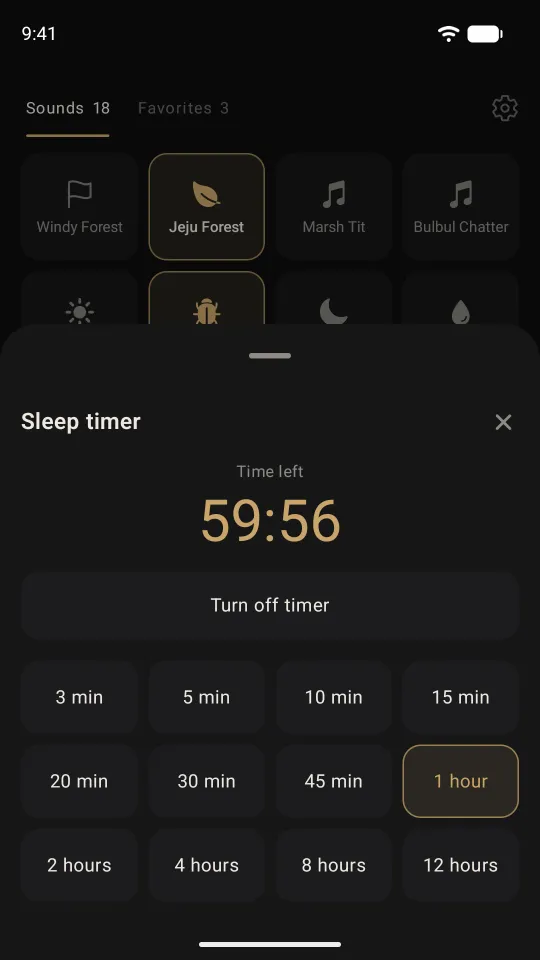
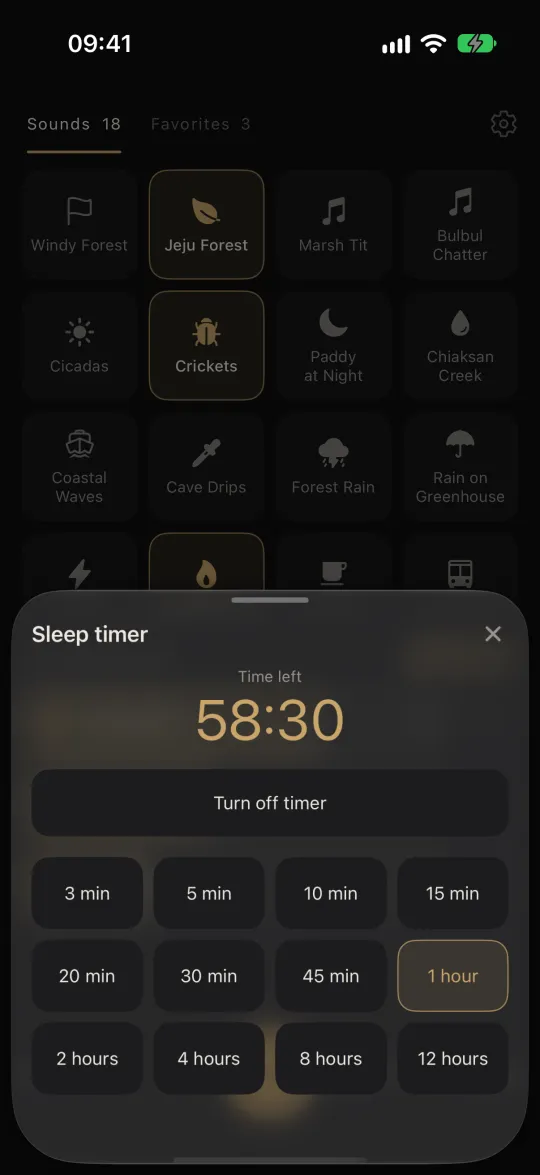
feat: 사라락 홍보 페이지에 App Store 배지와 링크를 넣고 Android 내용을 뺌
iOS 출시(2026-11-05)에 맞춰 "출시 예정"을 공식 배지로 바꾸고, 스마트 앱 배너와
구조화 데이터의 설치 주소·가격을 더했다. 당분간 App Store에서만 팔기로 해
Android·폴더블·태블릿 문구를 빼고 세로 캡처를 iPhone 스크린샷으로 바꿨다.

Claude-Session: https://claude.ai/code/session_01JywJnyFAonDbNCEtTYo7K1

diff --git a/sararak/ko/index.html b/sararak/ko/index.html
@@ -4,7 +4,7 @@
 <meta charset="utf-8">
 <meta name="viewport" content="width=device-width, initial-scale=1">
 <title>사라락: 앰비언트 사운드 믹서 · 빗소리, 숲, 카페 소리를 섞어 듣기</title>
-<meta name="description" content="빗소리, 숲, 파도, 장작불, 카페, 갈색 소음까지 18가지 소리 중 4개를 골라 섞어 듣는 앰비언트 사운드 앱입니다. 끊김 없는 반복 재생, 소리별 볼륨 조절, 슬립 타이머, 즐겨찾기를 지원하고, 아이폰 듀오와 폴더블에서는 접는 선에 맞춰 화면을 나눕니다.">
+<meta name="description" content="빗소리, 숲, 파도, 장작불, 카페, 갈색 소음까지 18가지 소리 중 4개를 골라 섞어 듣는 앰비언트 사운드 앱입니다. 끊김 없는 반복 재생, 소리별 볼륨 조절, 슬립 타이머, 즐겨찾기를 지원하고, 아이폰 듀오에서는 접는 선에 맞춰 화면을 나눕니다.">
 <link rel="canonical" href="https://plan275.com/sararak/ko/">
 <link rel="alternate" hreflang="ko" href="https://plan275.com/sararak/ko/">
 <link rel="alternate" hreflang="en" href="https://plan275.com/sararak/en/">
@@ -22,6 +22,7 @@
 <meta property="og:image:alt" content="사라락 로고와 '앰비언트 사운드 믹서' 문구">
 <meta name="twitter:card" content="summary_large_image">
 <meta name="theme-color" content="#0e0e0f">
+<meta name="apple-itunes-app" content="app-id=6825819206">
 <link rel="icon" href="../img/icon.svg" type="image/svg+xml">
 <link rel="apple-touch-icon" href="../img/icon-180.png">
 <link rel="stylesheet" href="../sararak.css">
@@ -36,8 +37,10 @@
   "image": "https://plan275.com/sararak/img/icon-512.png",
   "screenshot": "https://plan275.com/sararak/img/ko/1-main.webp",
   "applicationCategory": "LifestyleApplication",
-  "operatingSystem": "iOS 26 이상, Android 13 이상",
+  "operatingSystem": "iOS 26 이상",
   "inLanguage": ["ko", "en"],
+  "installUrl": "https://apps.apple.com/kr/app/id6825819206",
+  "offers": {"@type": "Offer", "price": "6600", "priceCurrency": "KRW"},
   "publisher": {"@type": "Organization", "name": "plan275"}
 }
 </script>
@@ -57,10 +60,10 @@
 <h1>사라락</h1>
 <p class="tagline">집중과 휴식을 위한 소리</p>
 <p>빗소리, 숲, 파도, 장작불, 붐비는 카페까지. 듣고 싶은 소리를 4개까지 골라 나만의 배경 소리를 만드세요. 소리마다 볼륨을 맞추고, 끊김 없이 계속 틀어 둘 수 있습니다.</p>
-<p class="availability">App Store · Google Play 출시 예정</p>
+<p class="store"><a href="https://apps.apple.com/kr/app/id6825819206"><img src="../img/ko/app-store-badge.svg" width="156" height="48" alt="App Store에서 다운로드 하기"></a></p>
 </div>
 <figure class="shot portrait">
-<img src="../img/ko/1-main.webp" width="540" height="960" fetchpriority="high" alt="사라락 메인 화면. 위에는 소리 타일이, 아래에는 제주 숲, 장작불, 귀뚜라미를 볼륨 70, 45, 30으로 함께 재생하는 믹서">
+<img src="../img/ko/1-main.webp" width="540" height="1175" fetchpriority="high" alt="사라락 메인 화면. 위에는 소리 타일이, 아래에는 제주 숲, 장작불, 귀뚜라미를 볼륨 70, 45, 30으로 함께 재생하는 믹서">
 </figure>
 </div>
 </div>
@@ -145,7 +148,7 @@
 </ul>
 </div>
 <figure class="shot portrait">
-<img src="../img/ko/3-favorites.webp" width="540" height="960" loading="lazy" alt="즐겨찾기 탭. 저장한 조합 3개: '비닐하우스 빗소리 · 천둥', '치악산 시냇물 · 쇠박새', '제주 숲 · 장작불 · 귀뚜라미'">
+<img src="../img/ko/3-favorites.webp" width="540" height="1175" loading="lazy" alt="즐겨찾기 탭. 저장한 조합 3개: '도심 거리 · 붐비는 카페', '천둥 · 비닐하우스 빗소리', '제주 숲 · 장작불 · 귀뚜라미'">
 </figure>
 </div>
 
@@ -158,17 +161,14 @@
 </ul>
 </div>
 <figure class="shot portrait">
-<img src="../img/ko/2-timer.webp" width="540" height="960" loading="lazy" alt="슬립 타이머 화면. 남은 시간 59:56, 그 아래에 3분부터 12시간까지 고르는 버튼">
+<img src="../img/ko/2-timer.webp" width="540" height="1175" loading="lazy" alt="슬립 타이머 화면. 남은 시간 58:24, 그 아래에 3분부터 12시간까지 고르는 버튼">
 </figure>
 </div>
 
 <div class="feature wide">
 <div>
-<h3>가로 화면과 태블릿</h3>
-<ul>
-<li>휴대폰을 가로로 돌리면 소리 목록과 믹서를 나란히 보여 줍니다.</li>
-<li>Android 태블릿에서도 나란히 보여 줍니다.</li>
-</ul>
+<h3>가로 화면</h3>
+<p>iPhone을 가로로 돌리면 소리 목록과 믹서를 나란히 보여 줍니다.</p>
 </div>
 <figure class="shot">
 <img src="../img/ko/4-landscape.webp" width="960" height="540" loading="lazy" alt="가로 화면. 왼쪽에 소리 타일, 오른쪽에 믹서와 재생 버튼">
@@ -177,21 +177,15 @@
 </div>
 </section>
 
-<section aria-labelledby="foldables">
+<section aria-labelledby="duo">
 <div class="wrap">
-<h2 id="foldables">폴더블과 아이폰 듀오</h2>
-<p class="lead">폴더블과 아이폰 듀오에서는 접는 선을 기준으로 화면을 나눠, 버튼이나 글자가 접히는 부분에 걸리지 않게 합니다.</p>
+<h2 id="duo">아이폰 듀오</h2>
+<p class="lead">아이폰 듀오에서는 접는 선을 기준으로 화면을 나눠, 버튼이나 글자가 접히는 부분에 걸리지 않게 합니다.</p>
 <div>
-<h3>아이폰 듀오</h3>
 <ul>
 <li>펼치면 접는 선을 경계로 왼쪽에 소리 목록, 오른쪽에 믹서를 둡니다.</li>
 <li>펼친 채 세로로 돌리면 접는 선 위에 소리 목록, 아래에 믹서를 둡니다.</li>
 <li>접으면 일반 iPhone과 같은 화면으로 돌아갑니다.</li>
-</ul>
-<h3>Android 폴더블</h3>
-<ul>
-<li>펼치면 소리 목록과 믹서를 나란히 보여 줍니다.</li>
-<li>반쯤 접어 책상에 세워 두면(테이블탑 자세) 접는 선 위에 소리 목록, 아래에 믹서를 둡니다.</li>
 </ul>
 <p>접거나 펼치거나 화면을 돌려도 소리는 끊기지 않고 이어집니다.</p>
 </div>
@@ -214,9 +208,9 @@
 <dt>인터넷 연결이 필요한가요?</dt>
 <dd>아니요. 모든 소리가 앱 안에 들어 있어서 비행기 모드에서도 들을 수 있습니다.</dd>
 <dt>어떤 기기에서 쓸 수 있나요?</dt>
-<dd>iOS 26 이상인 iPhone(아이폰 듀오 포함)과 Android 13 이상인 휴대폰, 태블릿, 폴더블에서 쓸 수 있습니다.</dd>
-<dt>폴더블이나 아이폰 듀오에서도 쓸 수 있나요?</dt>
-<dd>네. 펼치면 접는 선에 맞춰 소리 목록과 믹서를 나눠 보여 줍니다. 접은 상태에서는 일반 휴대폰과 같은 화면입니다.</dd>
+<dd>iOS 26 이상인 iPhone에서 쓸 수 있습니다. 아이폰 듀오도 지원합니다.</dd>
+<dt>아이폰 듀오에서도 쓸 수 있나요?</dt>
+<dd>네. 펼치면 접는 선에 맞춰 소리 목록과 믹서를 나눠 보여 줍니다. 접은 상태에서는 다른 iPhone과 같은 화면입니다.</dd>
 <dt>다른 앱을 쓰는 동안에도 소리가 나나요?</dt>
 <dd>앱을 나가거나 화면이 꺼져도 소리가 계속 납니다. 다만 다른 앱이 소리를 내면(동영상, 음악, 통화 등) 사라락은 멈춥니다.</dd>
 <dt>한 번에 몇 개까지 섞을 수 있나요?</dt>

diff --git a/sararak/en/index.html b/sararak/en/index.html
@@ -4,7 +4,7 @@
 <meta charset="utf-8">
 <meta name="viewport" content="width=device-width, initial-scale=1">
 <title>Sararak: Ambient Sound Mixer · Mix rain, forest, and cafe sounds</title>
-<meta name="description" content="Mix up to four of 18 ambient sounds, including rain, forest, ocean waves, a crackling fire, a busy cafe, and brown noise. Seamless loops, per-sound volume, a sleep timer, and favorites, with layouts that split at the fold on iPhone Duo and foldables.">
+<meta name="description" content="Mix up to four of 18 ambient sounds, including rain, forest, ocean waves, a crackling fire, a busy cafe, and brown noise. Seamless loops, per-sound volume, a sleep timer, and favorites, with a layout that splits at the fold on iPhone Duo.">
 <link rel="canonical" href="https://plan275.com/sararak/en/">
 <link rel="alternate" hreflang="ko" href="https://plan275.com/sararak/ko/">
 <link rel="alternate" hreflang="en" href="https://plan275.com/sararak/en/">
@@ -22,6 +22,7 @@
 <meta property="og:image:alt" content="The Sararak logo with the words &quot;Ambient Sound Mixer&quot;">
 <meta name="twitter:card" content="summary_large_image">
 <meta name="theme-color" content="#0e0e0f">
+<meta name="apple-itunes-app" content="app-id=6825819206">
 <link rel="icon" href="../img/icon.svg" type="image/svg+xml">
 <link rel="apple-touch-icon" href="../img/icon-180.png">
 <link rel="stylesheet" href="../sararak.css">
@@ -36,8 +37,10 @@
   "image": "https://plan275.com/sararak/img/icon-512.png",
   "screenshot": "https://plan275.com/sararak/img/en/1-main.webp",
   "applicationCategory": "LifestyleApplication",
-  "operatingSystem": "iOS 26 or later, Android 13 or later",
+  "operatingSystem": "iOS 26 or later",
   "inLanguage": ["en", "ko"],
+  "installUrl": "https://apps.apple.com/app/id6825819206",
+  "offers": {"@type": "Offer", "price": "3.99", "priceCurrency": "USD"},
   "publisher": {"@type": "Organization", "name": "plan275"}
 }
 </script>
@@ -57,10 +60,10 @@
 <h1>Sararak</h1>
 <p class="tagline">Sounds for focus and rest</p>
 <p>Rainfall, forest ambience, ocean waves, a crackling fire, the buzz of a busy cafe. Pick up to four sounds and make your own background mix. Set the volume of each one and let your mix loop seamlessly.</p>
-<p class="availability">Coming soon to the App Store and Google Play</p>
+<p class="store"><a href="https://apps.apple.com/app/id6825819206"><img src="../img/en/app-store-badge.svg" width="144" height="48" alt="Download on the App Store"></a></p>
 </div>
 <figure class="shot portrait">
-<img src="../img/en/1-main.webp" width="540" height="960" fetchpriority="high" alt="The Sararak main screen. Sound tiles at the top, and below them a mixer playing Jeju Forest, Crackling Fire, and Crickets at volumes 70, 45, and 30.">
+<img src="../img/en/1-main.webp" width="540" height="1175" fetchpriority="high" alt="The Sararak main screen. Sound tiles at the top, and below them a mixer playing Jeju Forest, Crackling Fire, and Crickets at volumes 70, 45, and 30.">
 </figure>
 </div>
 </div>
@@ -145,7 +148,7 @@
 </ul>
 </div>
 <figure class="shot portrait">
-<img src="../img/en/3-favorites.webp" width="540" height="960" loading="lazy" alt="The Favorites tab with three saved mixes: Rain on Greenhouse · Thunder, Chiaksan Creek · Marsh Tit, and Jeju Forest · Crackling Fire · Crickets.">
+<img src="../img/en/3-favorites.webp" width="540" height="1175" loading="lazy" alt="The Favorites tab with three saved mixes: City Street · Busy Cafe, Thunder · Rain on Greenhouse, and Jeju Forest · Crackling Fire · Crickets.">
 </figure>
 </div>
 
@@ -158,17 +161,14 @@
 </ul>
 </div>
 <figure class="shot portrait">
-<img src="../img/en/2-timer.webp" width="540" height="960" loading="lazy" alt="The sleep timer with 59:56 remaining, and options from 3 minutes to 12 hours below.">
+<img src="../img/en/2-timer.webp" width="540" height="1175" loading="lazy" alt="The sleep timer with 58:30 remaining, and options from 3 minutes to 12 hours below.">
 </figure>
 </div>
 
 <div class="feature wide">
 <div>
-<h3>Landscape and tablets</h3>
-<ul>
-<li>Turn your phone sideways to see the sounds and the mixer side by side.</li>
-<li>Android tablets show them side by side too.</li>
-</ul>
+<h3>Landscape</h3>
+<p>Turn your iPhone sideways to see the sounds and the mixer side by side.</p>
 </div>
 <figure class="shot">
 <img src="../img/en/4-landscape.webp" width="960" height="540" loading="lazy" alt="The landscape layout, with sound tiles on the left and the mixer and play button on the right.">
@@ -177,21 +177,15 @@
 </div>
 </section>
 
-<section aria-labelledby="foldables">
+<section aria-labelledby="duo">
 <div class="wrap">
-<h2 id="foldables">Foldables and iPhone Duo</h2>
-<p class="lead">On foldables and iPhone Duo, Sararak splits the screen along the fold, so no buttons or text land on the crease.</p>
+<h2 id="duo">iPhone Duo</h2>
+<p class="lead">On iPhone Duo, Sararak splits the screen along the fold, so no buttons or text land on the crease.</p>
 <div>
-<h3>iPhone Duo</h3>
 <ul>
 <li>Unfold it, and the sounds sit to the left of the fold with the mixer on the right.</li>
 <li>Turn it upright while unfolded, and the sounds sit above the fold with the mixer below.</li>
 <li>Fold it, and it looks just as it does on any other iPhone.</li>
-</ul>
-<h3>Android foldables</h3>
-<ul>
-<li>Unfold it to see the sounds and the mixer side by side.</li>
-<li>Half-fold it and stand it on a table (tabletop posture), and the sounds sit above the fold with the mixer below.</li>
 </ul>
 <p>Playback keeps going when you fold, unfold, or rotate the device.</p>
 </div>
@@ -214,9 +208,9 @@
 <dt>Do I need an internet connection?</dt>
 <dd>No. Every sound is built into the app, so it plays even in airplane mode.</dd>
 <dt>Which devices are supported?</dt>
-<dd>Sararak runs on iPhone (including iPhone Duo) with iOS 26 or later, and on Android phones, tablets, and foldables with Android 13 or later.</dd>
-<dt>Does it work on foldables and iPhone Duo?</dt>
-<dd>Yes. When unfolded, the screen splits at the fold, with the sounds on one side and the mixer on the other. When folded, it looks the same as on a regular phone.</dd>
+<dd>Sararak runs on iPhone with iOS 26 or later, including iPhone Duo.</dd>
+<dt>Does it work on iPhone Duo?</dt>
+<dd>Yes. When unfolded, the screen splits at the fold, with the sounds on one side and the mixer on the other. When folded, it looks the same as on any other iPhone.</dd>
 <dt>Does it keep playing while I use other apps?</dt>
 <dd>Yes, it keeps playing when you leave the app or turn off the screen. But if another app plays sound, such as a video, music, or a call, Sararak stops.</dd>
 <dt>How many sounds can I mix at once?</dt>

diff --git a/sararak/sararak.css b/sararak/sararak.css
@@ -109,15 +109,18 @@ header nav a:hover {
   max-width: 32rem;
 }
 
-.availability {
+/* App Store 배지. Apple 공식 이미지를 고치지 않고 쓴다 (화면 높이 40px 이상, 둘레에 배지 높이의 1/4 이상 여백) */
+.store {
+  margin: 1.5rem 0 0;
+}
+
+.store a {
   display: inline-block;
-  margin-top: 0.5rem;
-  padding: 0.5rem 1rem;
-  border: 1px solid var(--accent);
-  /* 좁은 화면에서 두 줄이 돼도 모서리가 어색하지 않게 알약 모양 대신 둥근 사각형 */
-  border-radius: 1rem;
-  color: var(--accent);
-  font-weight: 600;
+}
+
+.store img {
+  width: auto;
+  height: 3rem;
 }
 
 /* 휴대폰 화면 캡처 */

diff --git a/README.md b/README.md
@@ -41,8 +41,13 @@ plan275-site/
   - `robots.txt`로 크롤링을 막지 않는다. 막으면 검색 엔진이 noindex를 읽지 못해 외부 링크로 주소가 색인될 수 있다.
 - **홍보 페이지의 SEO 요소**: `title`, `meta description`, 절대 주소 `canonical`, `hreflang`(ko, en, x-default=en), Open Graph·Twitter 카드(언어별 `img/<언어>/og.png`), `MobileApplication` 구조화 데이터, 이미지의 `alt`·`width`·`height`.
   첫 화면 이미지 말고는 `loading="lazy"`. 두 언어판의 내용을 같게 유지하고, 고치면 `sitemap.xml`의 `lastmod`도 바꾼다.
+- **판매 스토어** (2026-11-08 사용자 결정): 당분간 **App Store에서만** 판다. 홍보 페이지에 Android·Google Play·폴더블·태블릿 내용을 넣지 않는다 (앱의 Android 판은 비공개 테스트에서 멈췄다). 방침 페이지는 두 플랫폼을 다루는 법적 문서라 그대로 둔다.
+  - 첫 화면에 Apple 공식 배지(`img/<언어>/app-store-badge.svg`, Apple 마케팅 도구 `toolbox.marketingtools.apple.com/api/v2/badges/download-on-the-app-store/black/<ko-kr|en-us>`에서 받음)를 높이 48px로 두고 App Store로 링크한다. 배지 이미지는 고치지 않는다.
+  - 링크: 한국어판 `https://apps.apple.com/kr/app/id6825819206`, 영어판 `https://apps.apple.com/app/id6825819206`(접속한 나라의 스토어로 넘어간다). 앱 ID `6825819206`.
+  - `<meta name="apple-itunes-app" content="app-id=6825819206">`: 아이폰 Safari에서 페이지 위에 받기·열기 배너가 뜬다.
+  - 구조화 데이터의 `offers` 가격은 한국어판 KRW 6600, 영어판 USD 3.99다. App Store 가격이 바뀌면(Apple의 환율·세금 조정 포함) 함께 고친다. 지금 가격은 `https://itunes.apple.com/lookup?id=6825819206&country=kr`(`us`)로 본다.
 - **홍보 문구 원칙** (2026-10-31 사용자 결정): 쓰는 상황(공부, 잠들기 전 등)과 소개 문구는 쓰되 효과(수면 개선, 스트레스 완화 등)를 주장하지 않는다. 기능 설명은 앱 저장소의 스토어 문구(`docs/agent_docs/GUIDE-20261024-0001-store-listing.md`)와 같은 사실만 쓴다. 앱이 바뀌면 그 문서의 "앱이 바뀌면 함께 고칠 곳"을 따라 이 페이지도 고친다.
-- **이미지**: 화면 캡처는 Play 스토어용 원본(1080×1920, 1920×1080)을 `cwebp -q 80 -resize 540 960`(가로는 `960 540`)으로 줄인다. `icon.svg`는 앱 저장소 `scripts/icon/make_icons.py`의 `svg('any')` 출력이다. 아이콘이나 화면이 바뀌면 다시 만든다.
+- **이미지**: 세로 화면 캡처(`1-main`, `2-timer`, `3-favorites`)는 App Store용 iPhone 스크린샷 원본(1206×2622, 앱 저장소 밖 `~/Downloads/sararak-screenshots/{ko,en}/`)을 `cwebp -q 80 -resize 540 0`으로 줄인다 (540×1175, 2026-11-08 Android 캡처에서 바꿨다). 가로 캡처(`4-landscape`)는 아직 Android 캡처(1920×1080을 `960 540`으로)다. `icon.svg`는 앱 저장소 `scripts/icon/make_icons.py`의 `svg('any')` 출력이다. 아이콘이나 화면이 바뀌면 다시 만든다.
 - 링크와 `style.css`는 상대 경로로 쓴다. `404.html`만 어느 경로에서나 쓰이므로 `/style.css`를 쓴다 (사용자 도메인 루트 기준).
 - 한국어와 영어 페이지는 서로 링크한다 (상단 `nav`, 2026-10-22에 되살렸다). Play Console에는 방침 URL을 하나만 넣을 수 있어 영어판을 넣고, 거기서 한국어판으로 간다.
 - 앱은 방침을 주소 끝에 `#app`을 붙여 앱 안 웹 뷰로 연다. 그때는 다른 페이지로 옮겨 가지 않게 링크를 없앤다: 방침 페이지 `<body>` 맨 앞의 `<span id="app"></span>`와 `style.css`의 `#app:target` 규칙이 `nav`를 숨기고, 본문의 사이트 안 링크(`class="site-link"`)를 누를 수 없게 한다.
@@ -82,4 +87,5 @@ python3 -m http.server -d . 8000   # http://localhost:8000/
 - [ ] 루트 `index.html`의 용도를 정한다 (지금은 빈 페이지). Google 검색 결과의 파비콘은 호스트 루트 페이지의 것만 쓰므로, 루트에 아이콘이 없으면 사라락 페이지에도 기본 아이콘이 보인다
 - [ ] Google Search Console과 네이버 서치어드바이저에 `plan275.com`을 등록하고 `sitemap.xml`을 제출한다 (소유 확인은 사용자)
 - [x] "폴더블과 아이폰 듀오" 절에 화면 캡처를 더한다. 2026-11-01에 아이폰 듀오 펼침 화면을 가로(`5-duo.webp`)와 세로(`6-duo-upright.webp`) 두 장으로 넣었다 (넓은 화면에서는 같은 높이로 나란히, 좁은 화면에서는 위아래로). 시뮬레이터는 `simctl`로 펼칠 수 없어 사용자가 DeviceHub에서 펼치고, `simctl io <기기> screenshot --display=3`으로 찍어 `cwebp -q 80 -resize 960 0`(세로는 `540 0`)으로 줄였다 (상태 막대는 `simctl status_bar override --time 9:41`로 정리). Android 폴더블 테이블탑 캡처는 넣지 않는다 (2026-11-01 사용자 결정. 아이폰 듀오를 펼쳐 세로로 세운 화면과 같은 테이블탑 배치다)
-- [ ] 스토어에 출시되면 홍보 페이지의 "출시 예정"을 스토어 링크(배지)로 바꾸고, 구조화 데이터에 스토어 주소(`sameAs` 등)를 더한다
+- [x] 스토어에 출시되면 홍보 페이지의 "출시 예정"을 스토어 링크(배지)로 바꾸고, 구조화 데이터에 스토어 주소를 더한다 (2026-11-08. iOS는 2026-11-05 출시. `installUrl`·`offers`, 스마트 앱 배너)
+- [ ] 가로 화면 캡처(`4-landscape.webp`)를 iPhone 캡처로 바꾼다. `simctl`로는 회전할 수 없어 사용자가 DeviceHub에서 돌려야 한다
